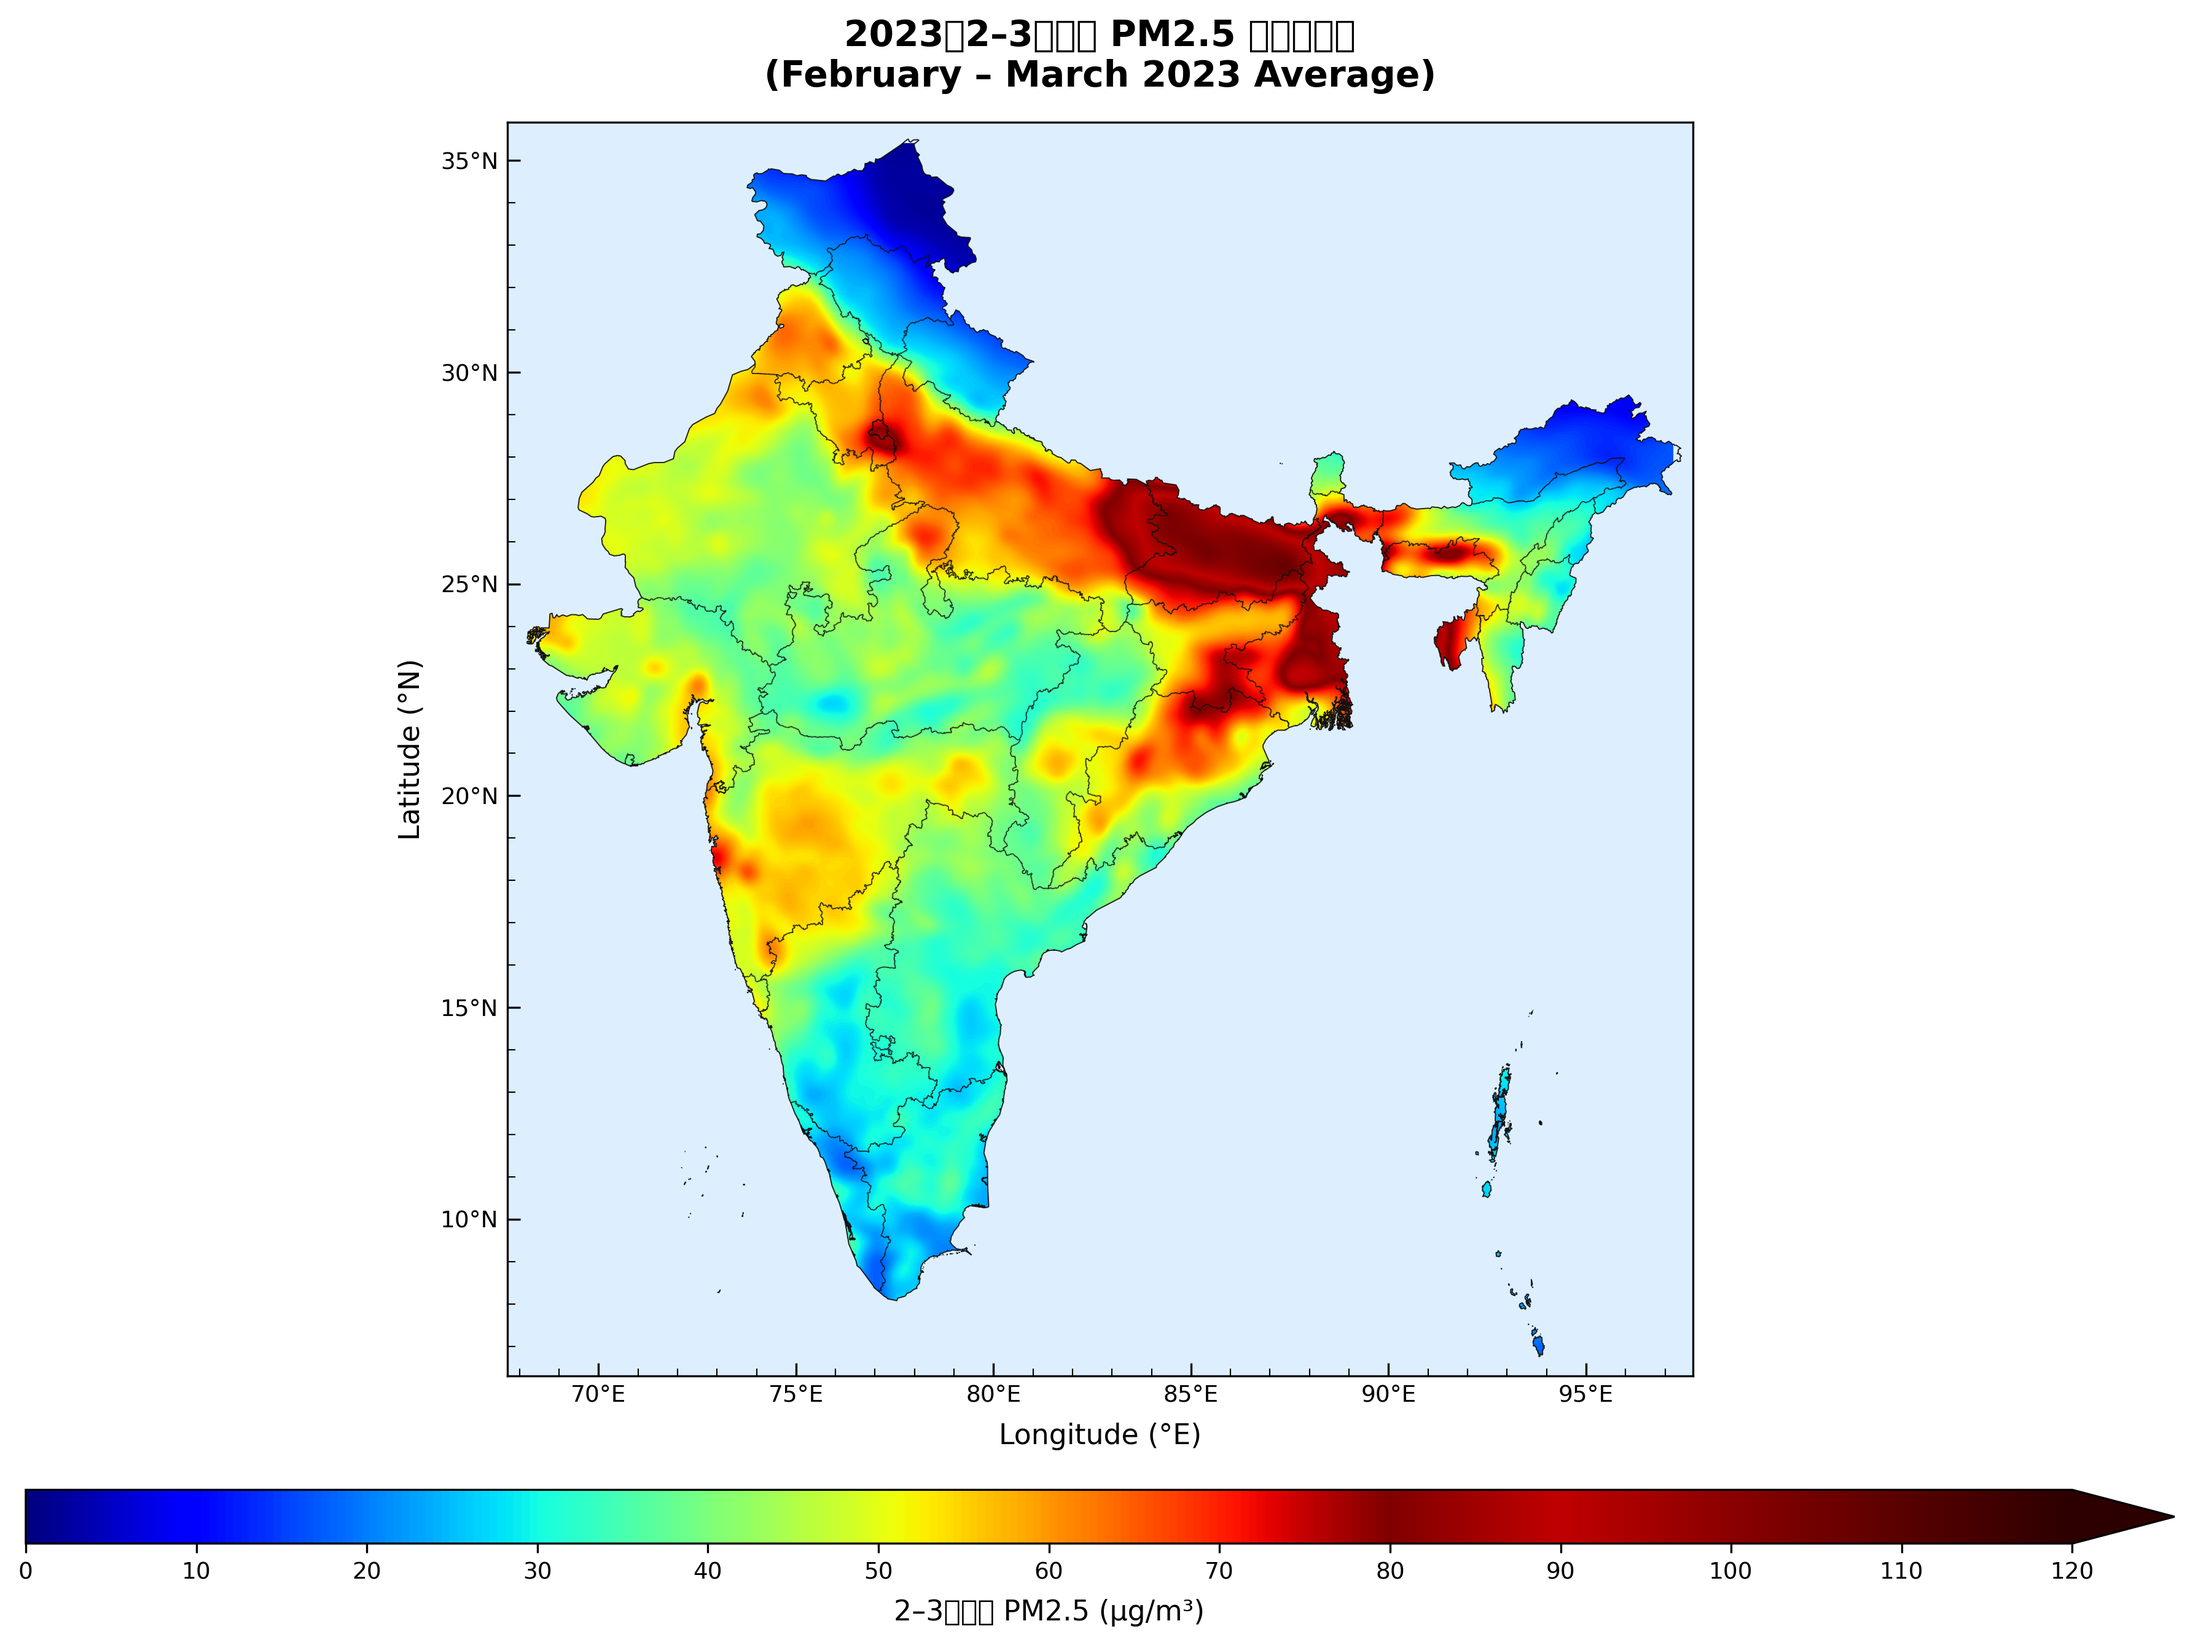
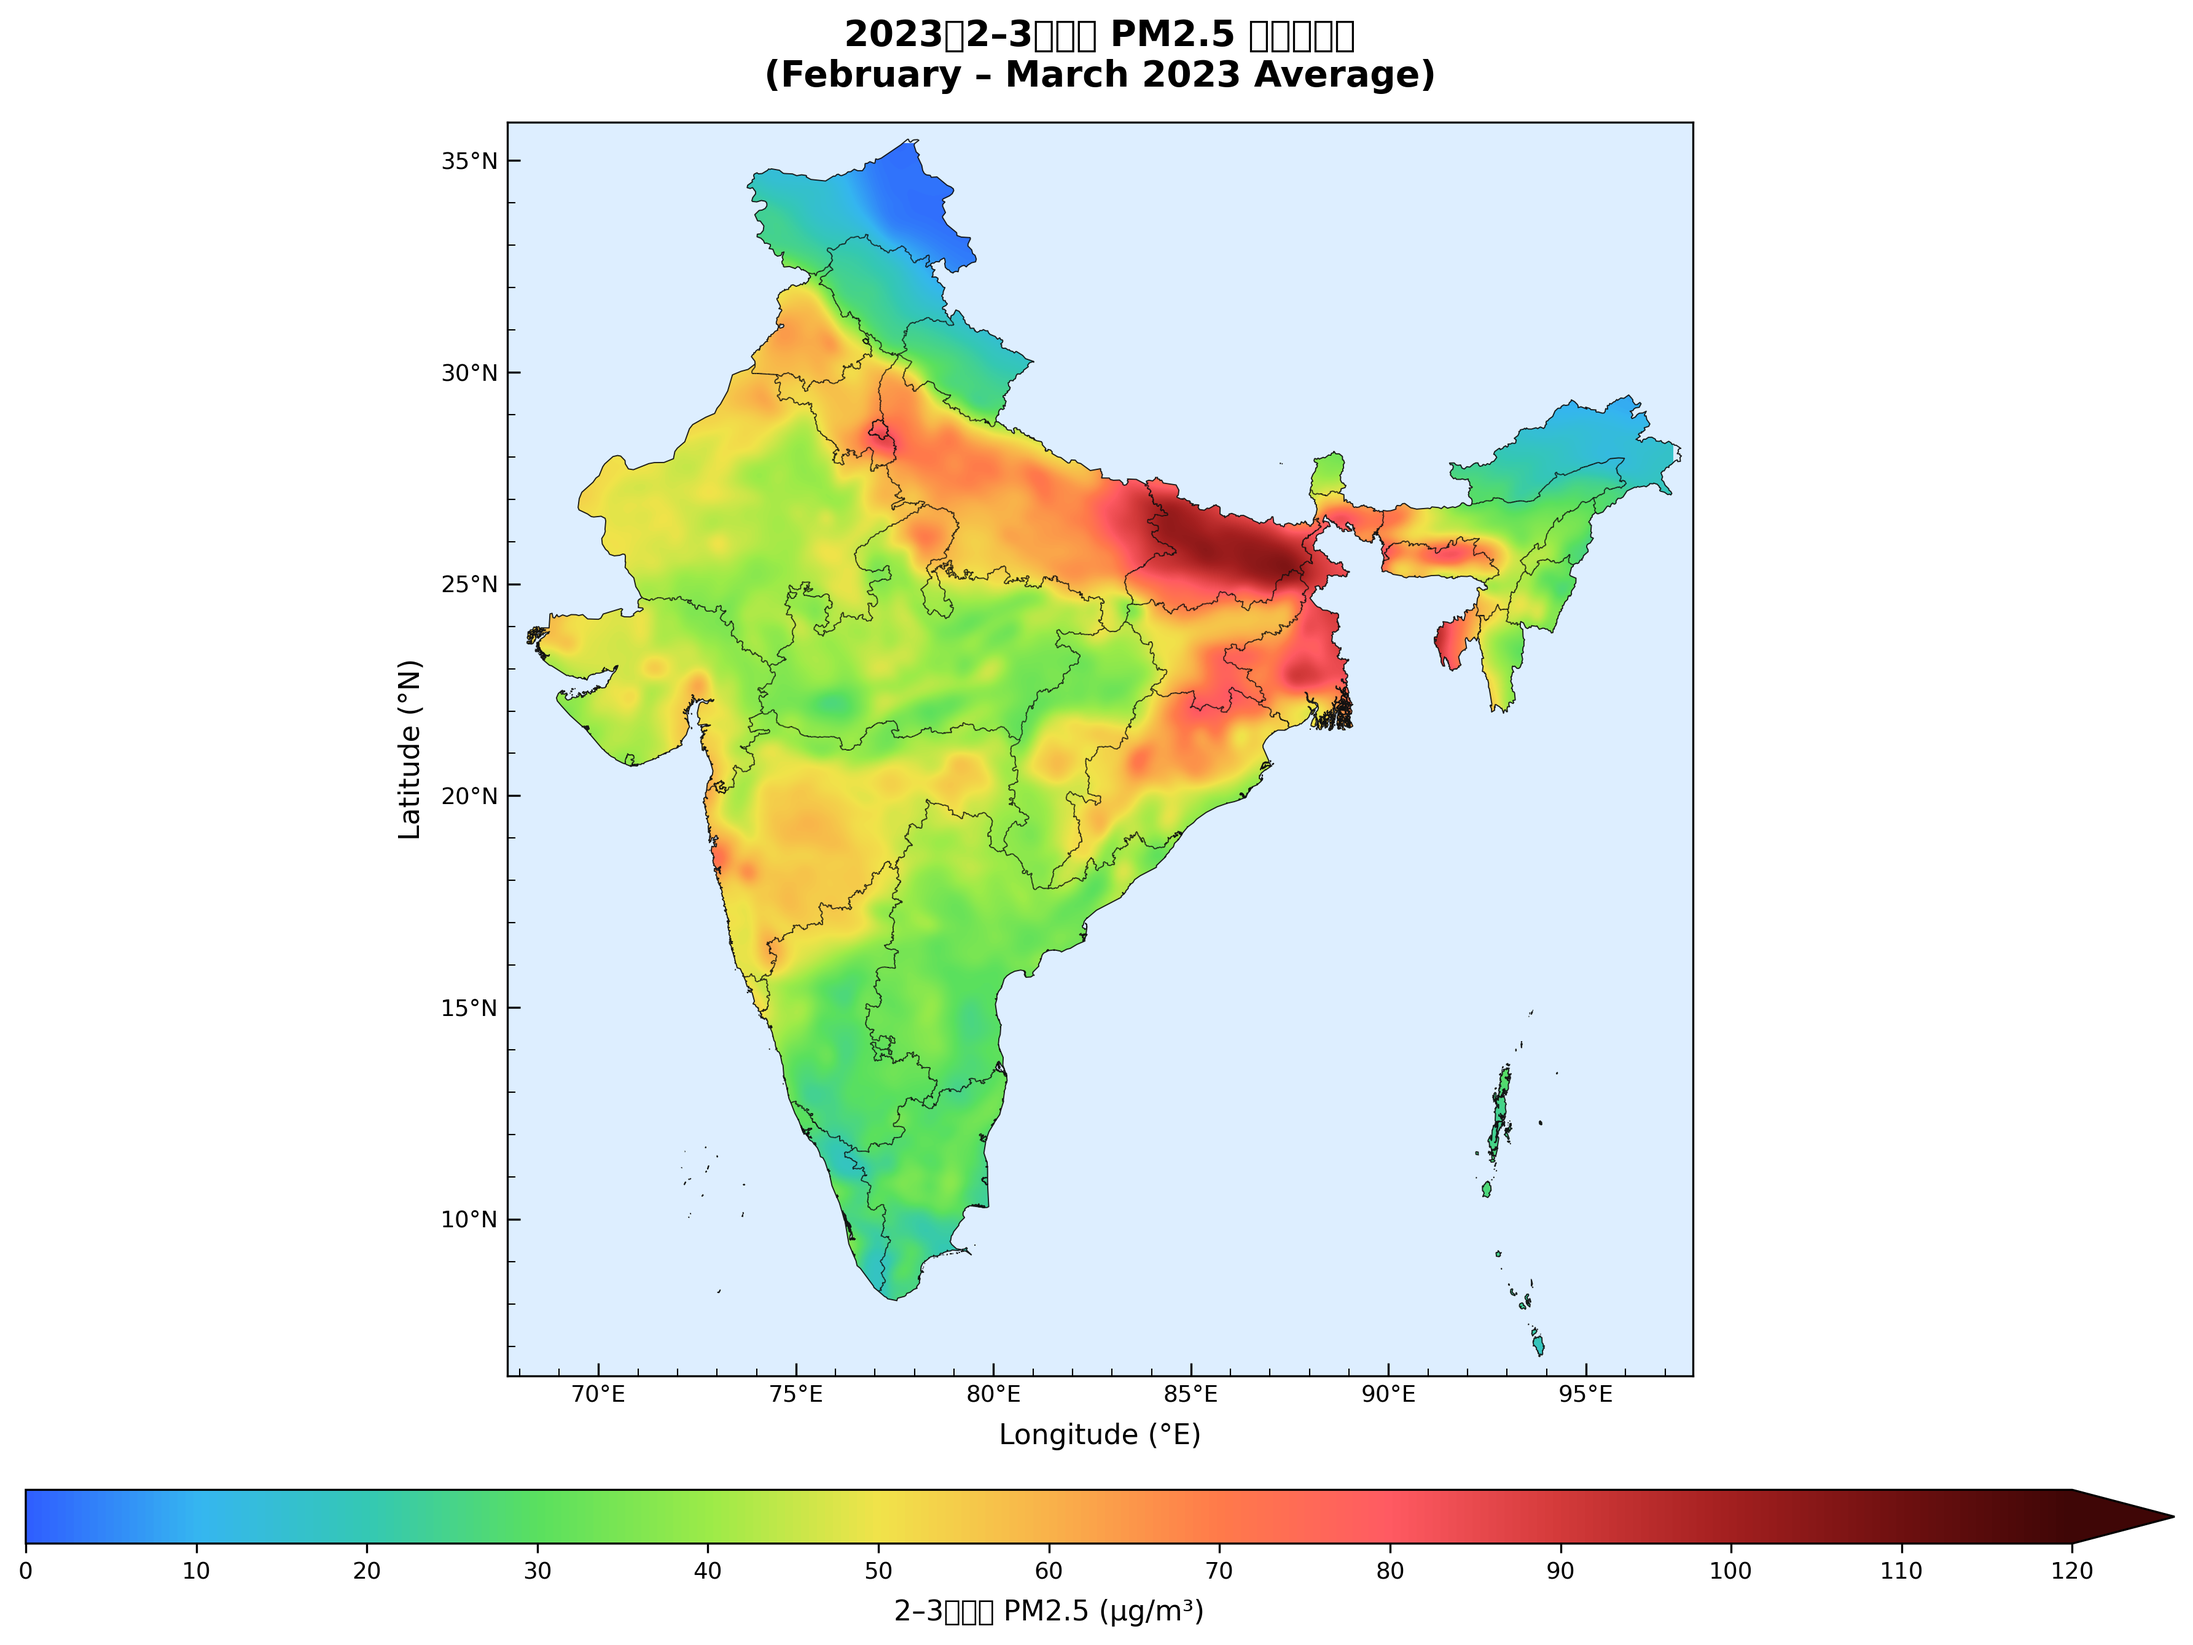
Adjust 0-80 PM2.5 colorbar palette to match reference start color
Agent-Logs-Url: https://github.com/hhhhccccc/pm25-india-visualization/sessions/beb7da5c-255e-4f83-8311-ed2288519004

Changed region(s): [[0.2487, 0.093, 0.7773, 0.8058], [0.0, 0.8988, 0.8395, 0.9608]]

diff --git a/plot_pm25.py b/plot_pm25.py
@@ -122,15 +122,25 @@ pm25_plot = pm25_smooth.copy()
 # ---------------------------------------------------------------------------
 VMIN, VMID, VMAX = 0, 80, 120   # μg/m³
 
-# Keep 0–80 exactly on the original jet mapping, then extend 80–120 with darker reds.
-_jet = plt.get_cmap("jet")
-_vals_0_80 = np.arange(VMIN, VMID + 1, 1, dtype=float)
+# Explicit 0–80 reference palette (blue→cyan→green→yellow→orange→red).
+# This keeps the 0 color aligned with the user's reference bar.
+_vals_0_80 = np.array([0, 10, 20, 30, 40, 50, 60, 70, 80], dtype=float)
 _pos_0_80 = _vals_0_80 / VMAX
-_cols_0_80 = [_jet(v / VMID) for v in _vals_0_80]
+_cols_0_80 = [
+    "#2f5fff",  # 0
+    "#35b6f0",  # 10
+    "#34c8b3",  # 20
+    "#5ae05e",  # 30
+    "#9ceb48",  # 40
+    "#f1e34a",  # 50
+    "#f9b24a",  # 60
+    "#ff7a4a",  # 70
+    "#ff5a62",  # 80
+]
 
 _vals_hi = np.array([90, 100, 110, 120], dtype=float)
 _pos_hi = _vals_hi / VMAX
-_cols_hi = ["#c00000", "#8b0000", "#5a0000", "#2d0000"]
+_cols_hi = ["#d33a3a", "#a31f1f", "#6f1010", "#3f0606"]
 
 cmap = mcolors.LinearSegmentedColormap.from_list(
     "pm25_extended",
